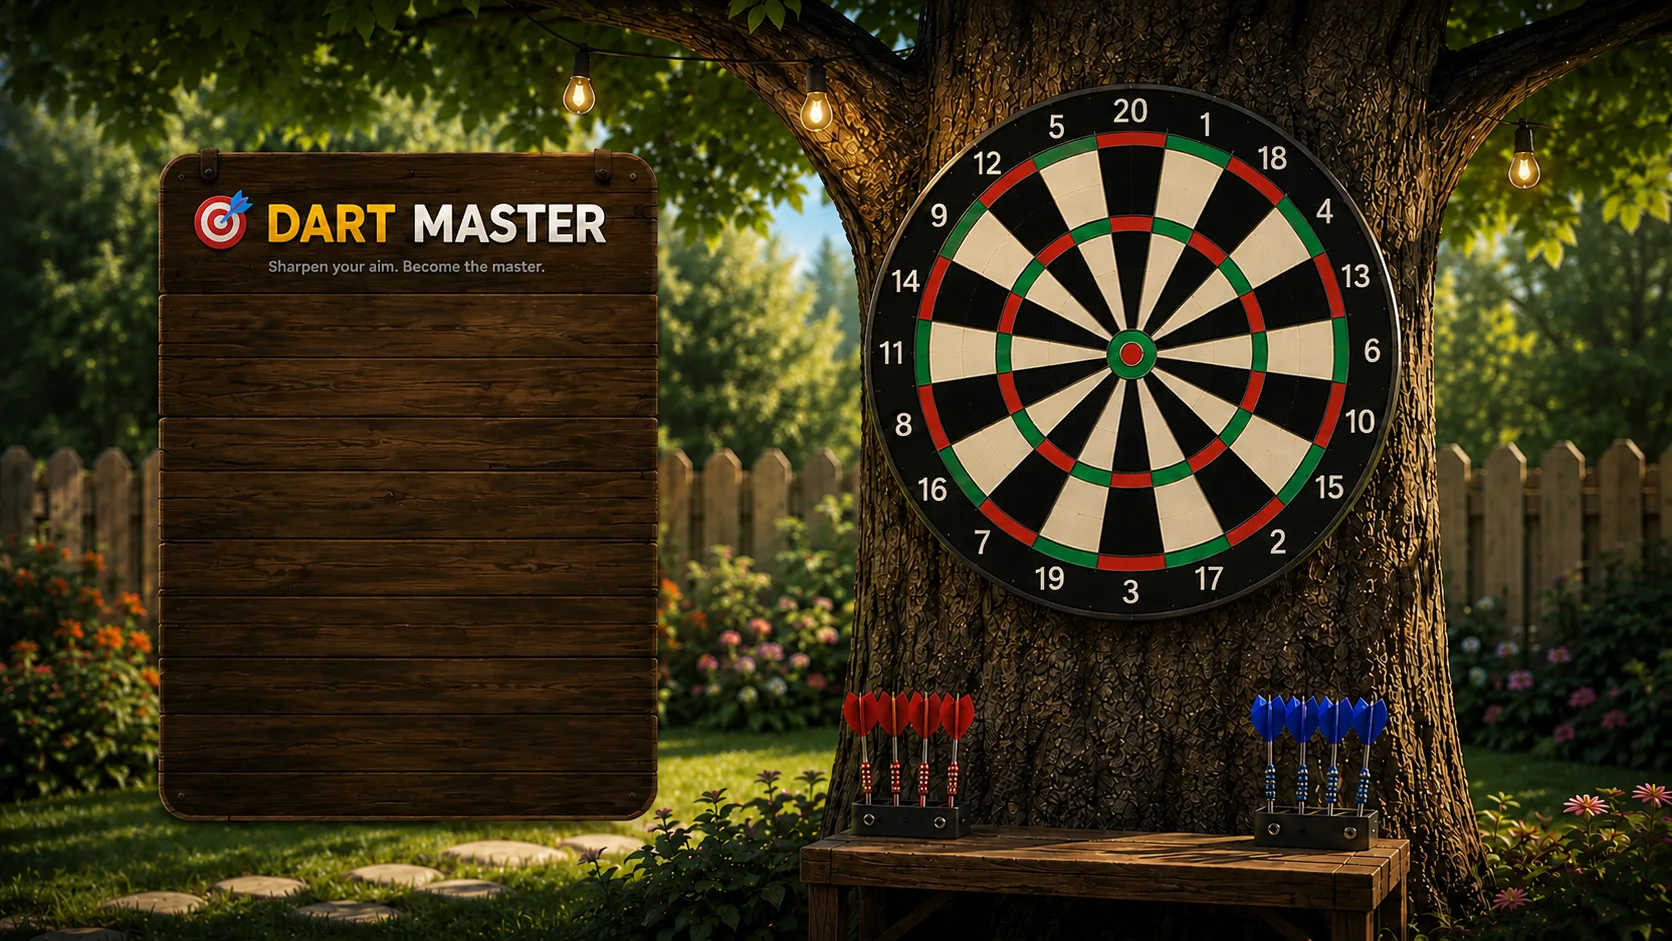
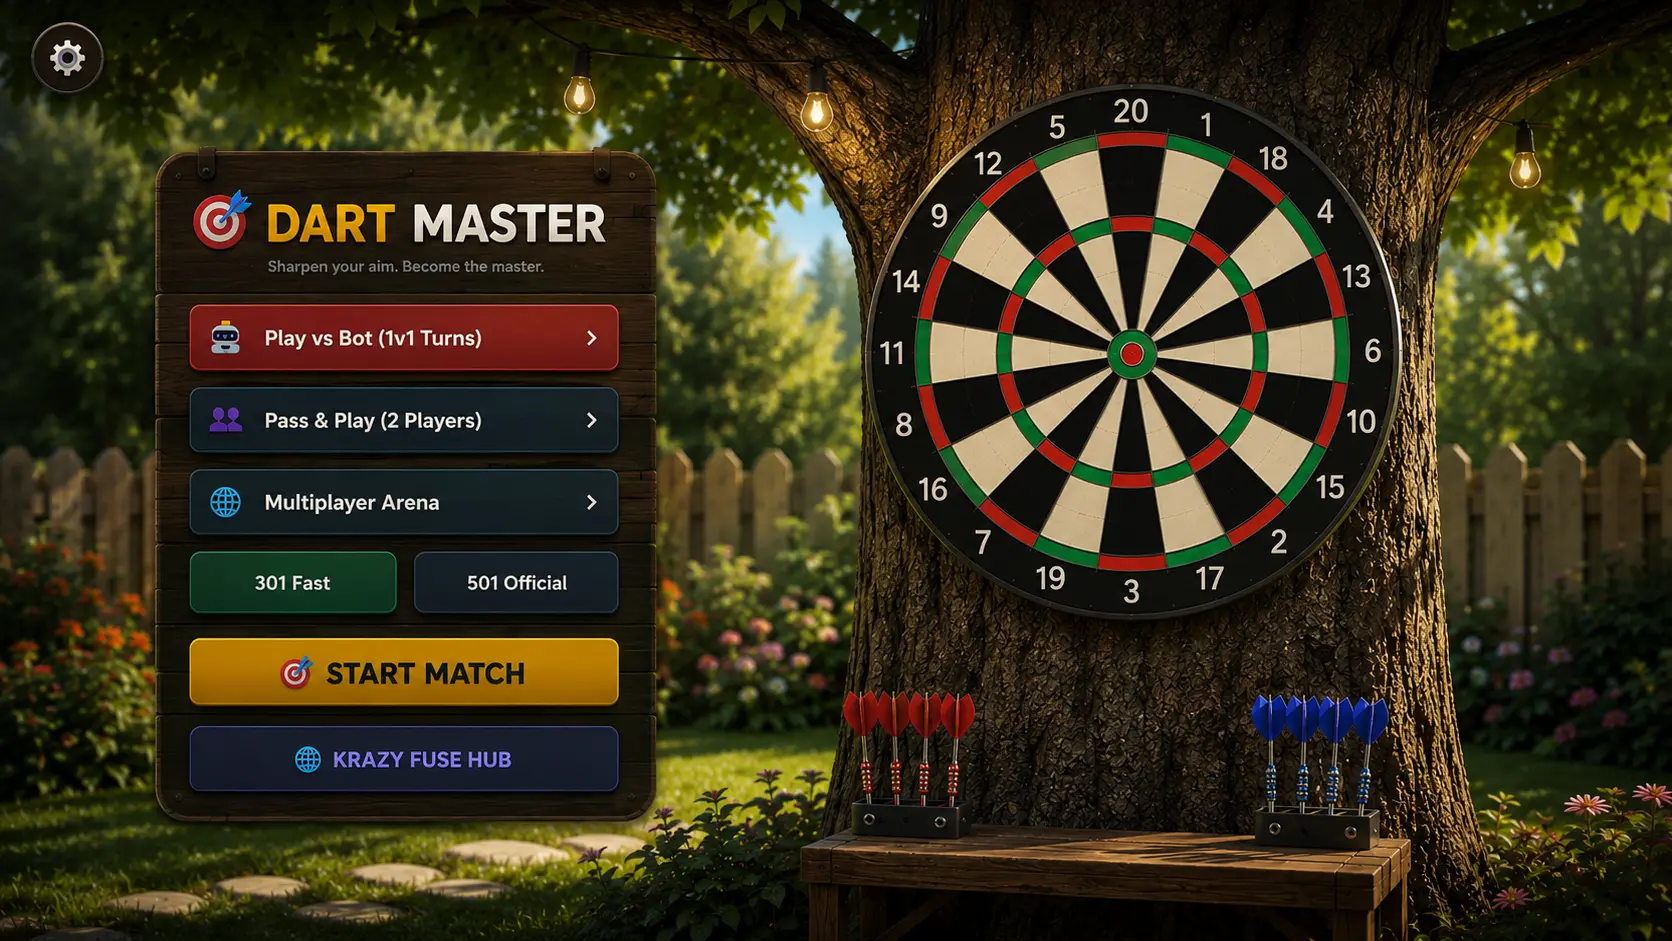
fix: Use user's original webp+webm for dart bg, clean filenames, robust autoplay, always-visible video layer

diff --git a/dart-board/index.html b/dart-board/index.html
@@ -779,7 +779,7 @@
             max-width: calc((100vh - 20px) * (1672 / 941));
             max-height: calc((100vw - 20px) * (941 / 1672));
             aspect-ratio: 1672 / 941;
-            background: #1a2e1a url('dart_home_bg.jpg') no-repeat center center / cover;
+            background: #1a2e1a url('dart_home_bg.webp') no-repeat center center / cover;
             margin: auto;
             border-radius: 16px;
             box-shadow: 0 30px 80px rgba(0, 0, 0, 0.95);
@@ -1840,8 +1840,8 @@
         <div class="modal-overlay active" id="modalOverlay">
             <div class="dart-home-viewport">
                 <!-- Atmospheric Background Image (Always visible fallback) -->
-                <img id="dartHomeBgImg" class="dart-home-bg-img" src="dart_home_bg.jpg" alt="Dart Home Background">
-                <video id="dartHomeBgVideo" class="dart-home-bg-video" autoplay muted playsinline poster="dart_home_bg.webp" style="opacity: 0; transition: opacity 0.3s ease;">
+                <img id="dartHomeBgImg" class="dart-home-bg-img" src="dart_home_bg.webp" alt="Dart Home Background">
+                <video id="dartHomeBgVideo" class="dart-home-bg-video" autoplay muted playsinline loop poster="dart_home_bg.webp" style="opacity: 1;">
                     <source src="dart_home_bg.webm" type="video/webm">
                 </video>
 
@@ -3703,36 +3703,29 @@
             // Reveal buttons immediately
             showBoardButtons();
 
+            // Video background: always try to play, WebP img is always visible underneath as fallback.
             if (homeBgVideo) {
-                homeBgVideo.loop = false;
-                let revealed = false;
-                const onAnimationDone = () => {
-                    if (revealed) return;
-                    revealed = true;
-                    try { homeBgVideo.pause(); } catch(e) {}
-                    showBoardButtons();
+                homeBgVideo.muted = true;
+                homeBgVideo.loop = true;
+                // Don't hide the video - it starts visible. Just ensure it plays.
+                const tryPlay = () => {
+                    const p = homeBgVideo.play();
+                    if (p !== undefined) {
+                        p.catch(() => {
+                            // Autoplay blocked - img fallback is already visible, nothing to do.
+                        });
+                    }
                 };
-
-                homeBgVideo.addEventListener('ended', onAnimationDone);
-                homeBgVideo.addEventListener('error', () => {
-                    homeBgVideo.style.display = 'none';
-                    onAnimationDone();
-                });
-
-                const playPromise = homeBgVideo.play();
-                if (playPromise !== undefined) {
-                    playPromise.then(() => {
-                        homeBgVideo.style.opacity = '1';
-                    }).catch(() => {
-                        homeBgVideo.style.display = 'none';
-                        onAnimationDone();
-                    });
-                }
-                
-                // Fallback timer
-                setTimeout(onAnimationDone, 3000);
-            } else {
-                showBoardButtons();
+                // Try immediately
+                tryPlay();
+                // Also try on first user interaction (handles strict autoplay policies)
+                const onInteract = () => {
+                    tryPlay();
+                    document.removeEventListener('click', onInteract);
+                    document.removeEventListener('touchstart', onInteract);
+                };
+                document.addEventListener('click', onInteract);
+                document.addEventListener('touchstart', onInteract);
             }
         });
     })();

diff --git a/dist/dart-board/index.html b/dist/dart-board/index.html
@@ -779,7 +779,7 @@
             max-width: calc((100vh - 20px) * (1672 / 941));
             max-height: calc((100vw - 20px) * (941 / 1672));
             aspect-ratio: 1672 / 941;
-            background: #1a2e1a url('dart_home_bg.jpg') no-repeat center center / cover;
+            background: #1a2e1a url('dart_home_bg.webp') no-repeat center center / cover;
             margin: auto;
             border-radius: 16px;
             box-shadow: 0 30px 80px rgba(0, 0, 0, 0.95);
@@ -1840,8 +1840,8 @@
         <div class="modal-overlay active" id="modalOverlay">
             <div class="dart-home-viewport">
                 <!-- Atmospheric Background Image (Always visible fallback) -->
-                <img id="dartHomeBgImg" class="dart-home-bg-img" src="dart_home_bg.jpg" alt="Dart Home Background">
-                <video id="dartHomeBgVideo" class="dart-home-bg-video" autoplay muted playsinline poster="dart_home_bg.webp" style="opacity: 0; transition: opacity 0.3s ease;">
+                <img id="dartHomeBgImg" class="dart-home-bg-img" src="dart_home_bg.webp" alt="Dart Home Background">
+                <video id="dartHomeBgVideo" class="dart-home-bg-video" autoplay muted playsinline loop poster="dart_home_bg.webp" style="opacity: 1;">
                     <source src="dart_home_bg.webm" type="video/webm">
                 </video>
 
@@ -3703,36 +3703,29 @@
             // Reveal buttons immediately
             showBoardButtons();
 
+            // Video background: always try to play, WebP img is always visible underneath as fallback.
             if (homeBgVideo) {
-                homeBgVideo.loop = false;
-                let revealed = false;
-                const onAnimationDone = () => {
-                    if (revealed) return;
-                    revealed = true;
-                    try { homeBgVideo.pause(); } catch(e) {}
-                    showBoardButtons();
+                homeBgVideo.muted = true;
+                homeBgVideo.loop = true;
+                // Don't hide the video - it starts visible. Just ensure it plays.
+                const tryPlay = () => {
+                    const p = homeBgVideo.play();
+                    if (p !== undefined) {
+                        p.catch(() => {
+                            // Autoplay blocked - img fallback is already visible, nothing to do.
+                        });
+                    }
                 };
-
-                homeBgVideo.addEventListener('ended', onAnimationDone);
-                homeBgVideo.addEventListener('error', () => {
-                    homeBgVideo.style.display = 'none';
-                    onAnimationDone();
-                });
-
-                const playPromise = homeBgVideo.play();
-                if (playPromise !== undefined) {
-                    playPromise.then(() => {
-                        homeBgVideo.style.opacity = '1';
-                    }).catch(() => {
-                        homeBgVideo.style.display = 'none';
-                        onAnimationDone();
-                    });
-                }
-                
-                // Fallback timer
-                setTimeout(onAnimationDone, 3000);
-            } else {
-                showBoardButtons();
+                // Try immediately
+                tryPlay();
+                // Also try on first user interaction (handles strict autoplay policies)
+                const onInteract = () => {
+                    tryPlay();
+                    document.removeEventListener('click', onInteract);
+                    document.removeEventListener('touchstart', onInteract);
+                };
+                document.addEventListener('click', onInteract);
+                document.addEventListener('touchstart', onInteract);
             }
         });
     })();
